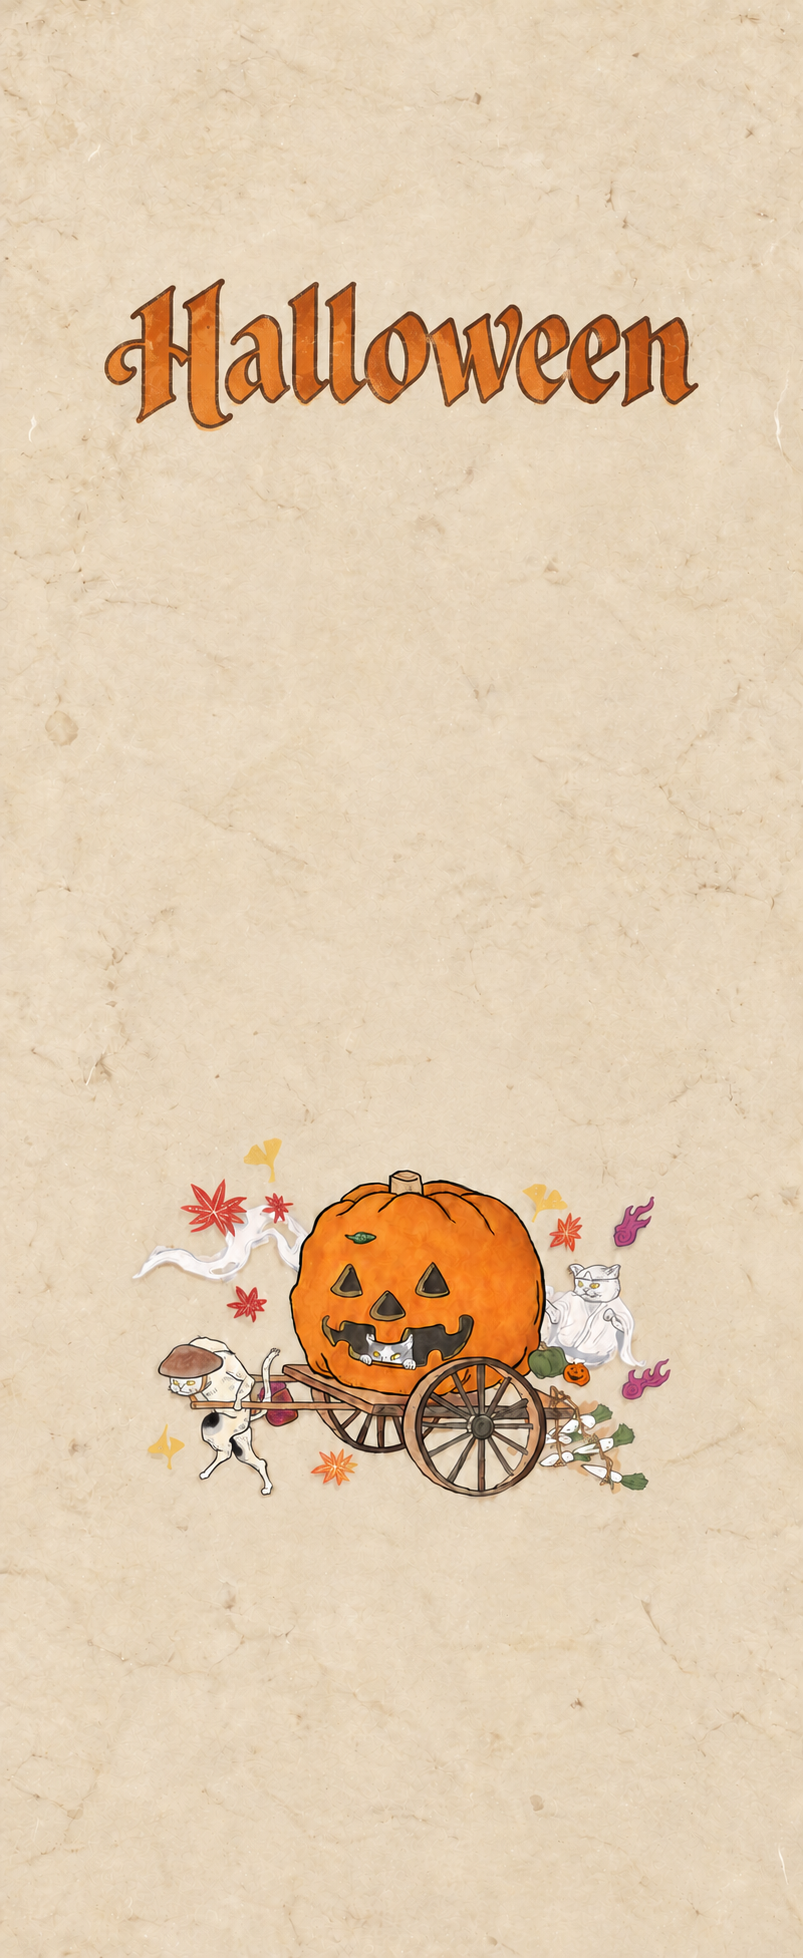
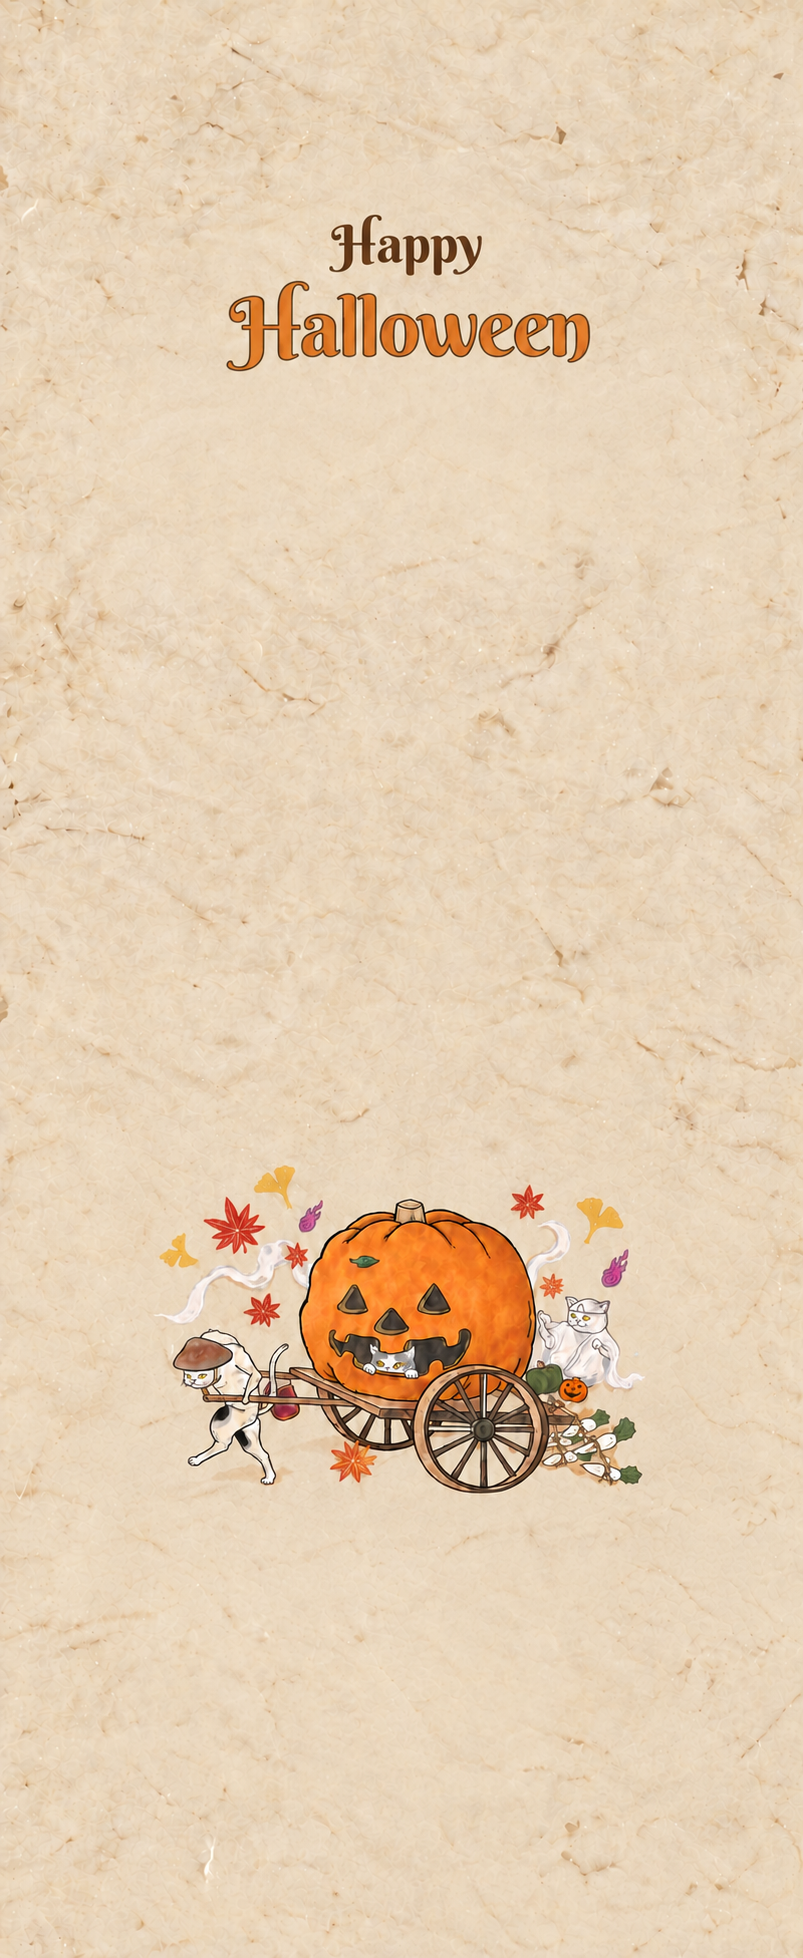
feat: replace Halloween rail image and add category gap

diff --git a/prototype/src/styles.css b/prototype/src/styles.css
@@ -139,7 +139,7 @@ h1, h2, h3, p { margin: 0; }
 .customer-title--horizontal span { font-size: 20px; }
 .customer-title--horizontal strong { font-size: clamp(36px, 4vw, 44px); }
 .category-nav { margin-top: 18px; padding-top: 155px; display: grid; }
-.category-nav button { min-height: 55px; border: 0; border-bottom: 1px solid rgb(255 255 255 / 45%); background: transparent; color: #fff; display: grid; grid-template-columns: 62px 1fr; align-items: center; padding: 0; text-align: left; font-size: 21px; font-weight: 800; }
+.category-nav button { min-height: 55px; border: 0; border-bottom: 1px solid rgb(255 255 255 / 45%); background: transparent; color: #fff; display: grid; grid-template-columns: 62px minmax(0, 1fr); column-gap: 5px; align-items: center; padding: 0; text-align: left; font-size: 21px; font-weight: 800; }
 .category-nav button b { font: 700 20px/1 var(--font-display); text-align: center; }
 .category-nav button.is-active { background: #fffaf1; color: var(--red); }
 .category-nav button.is-active b { height: 100%; display: grid; place-items: center; background: var(--ink); color: #fff; }
@@ -156,7 +156,7 @@ h1, h2, h3, p { margin: 0; }
 .customer-theme-preview__rail[data-customer-theme="japanese-halloween"]:not(.is-collapsed) .category-nav button.is-active { background: var(--customer-theme-rail-selected-background); color: var(--customer-theme-rail-selected-foreground); }
 .customer-theme-preview__rail[data-customer-theme="japanese-halloween"]:not(.is-collapsed) .category-nav button.is-active b { background: var(--customer-theme-rail-selected-marker-background); color: var(--customer-theme-rail-selected-marker-foreground); }
 .customer-theme-preview__rail[data-customer-theme="japanese-halloween"]:not(.is-collapsed) button:focus-visible { outline: 3px solid var(--customer-theme-rail-focus); outline-offset: 2px; }
-.category-nav__placeholder { min-height: 55px; border-bottom: 1px solid rgb(255 255 255 / 45%); display: grid; grid-template-columns: 62px 1fr; align-items: center; color: rgb(255 255 255 / 55%); }
+.category-nav__placeholder { min-height: 55px; border-bottom: 1px solid rgb(255 255 255 / 45%); display: grid; grid-template-columns: 62px minmax(0, 1fr); column-gap: 5px; align-items: center; color: rgb(255 255 255 / 55%); }
 .category-nav__placeholder b { font: 700 20px/1 var(--font-display); text-align: center; }
 .customer-hours { margin: auto 14px 8px; display: flex; flex-direction: column; gap: 4px; color: #fff; }
 .customer-hours b { font-size: 12px; }
